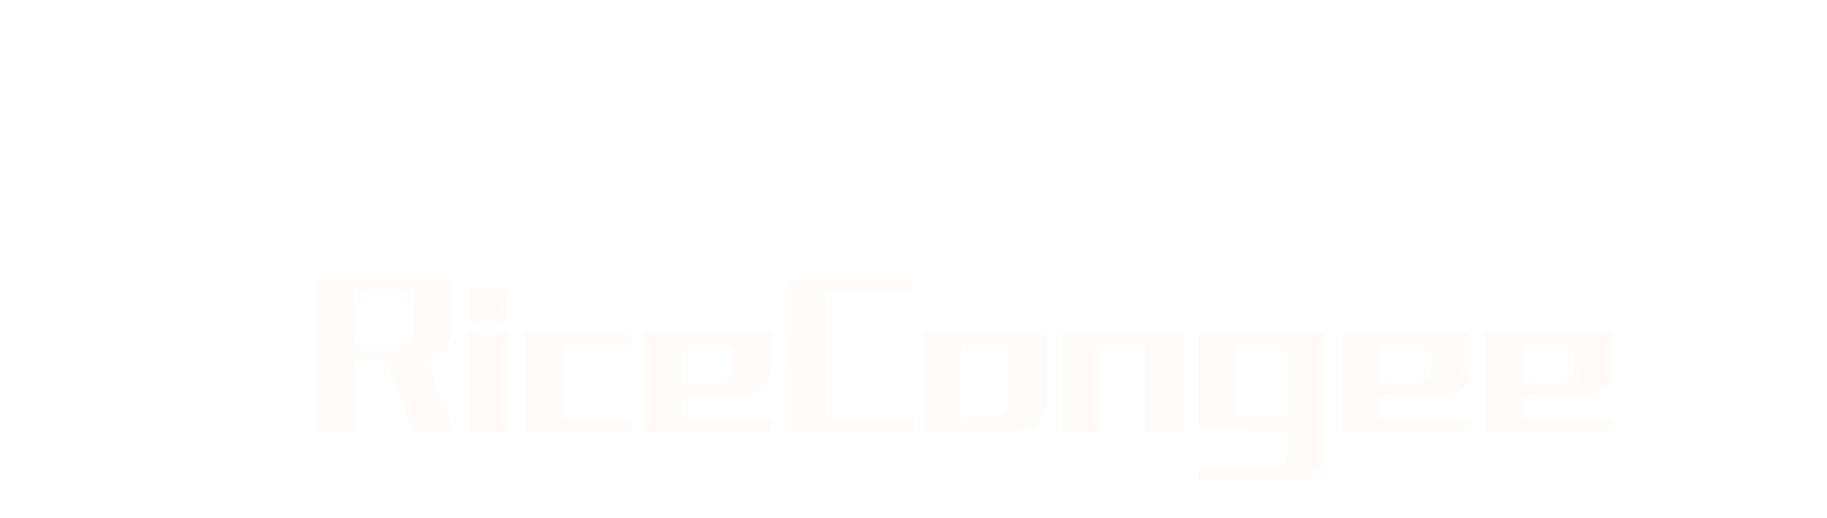
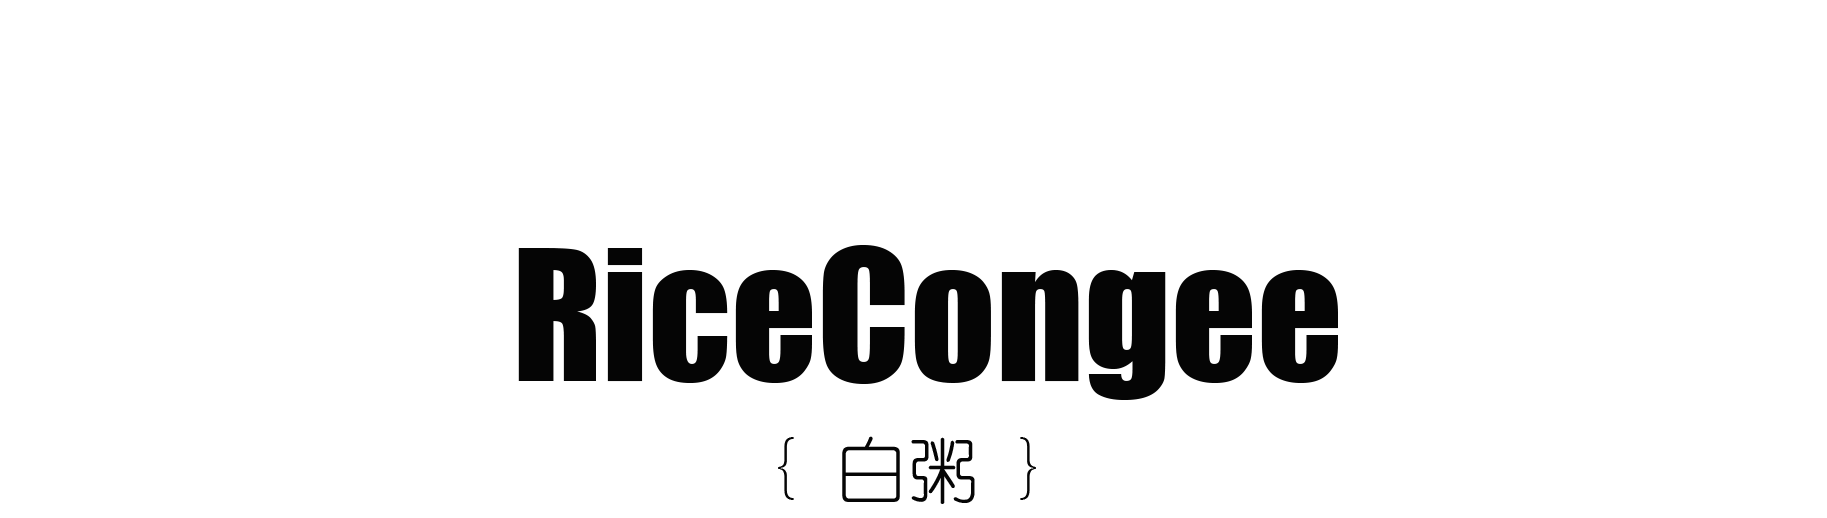
update pic

Changed region(s): [[0.2808, 0.4633, 0.7488, 0.7722], [0.4368, 0.834, 0.5304, 0.9884]]

diff --git a/index.html b/index.html
@@ -1,10 +1,10 @@
 <!DOCTYPE html>
 <html>
 <head>
-	<title>Eno - 曹阳洋</title>
+	<title>RiceCongee - 曹阳洋</title>
 	<meta charset="utf-8">
 	<meta name="description" content="Eno's Blog">
-    <meta name="keyword" content="e7no,e7no.com,Eno,曹阳洋,阳洋,技术博客,个人博客,柒诺工作室"> 
+    <meta name="keyword" content="e7no,e7no.com,RiceCongee,白粥,曹阳洋,阳洋,技术博客,个人博客,柒诺工作室"> 
 	<meta http-equiv="X-UA-Compatible" content="IE=edge">
 	<meta name="viewport" content="width=device-width,initial-scale=1.0,user-scalable=no">
 	<meta http-equiv="Refresh" content="30;url=http://e.e7no.com">
